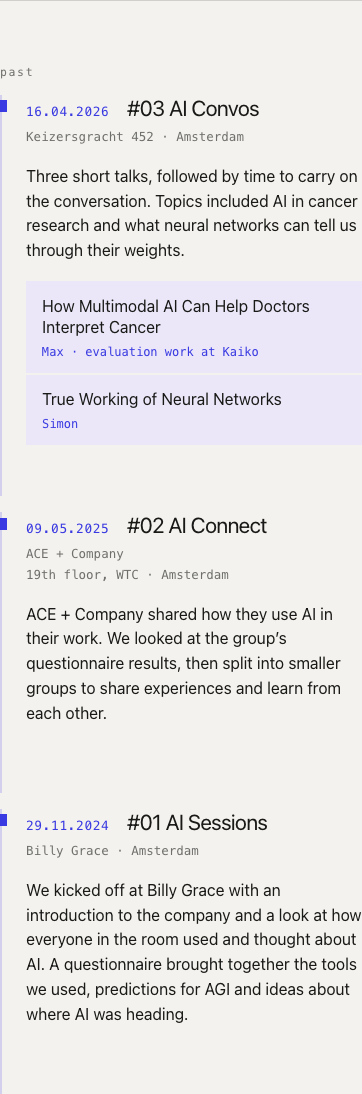
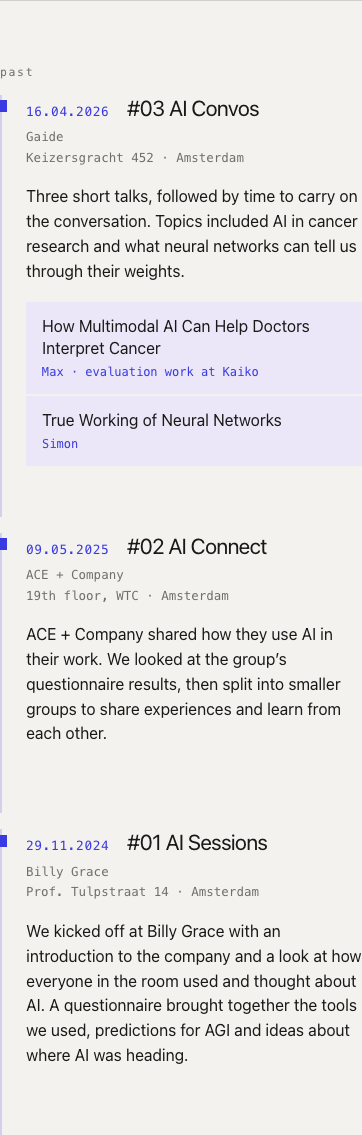
Restore past event locations and align desktop address baselines

diff --git a/index.html b/index.html
@@ -212,6 +212,10 @@
     footer a { border-bottom: 1px solid transparent; }
     footer a:hover { border-color: currentColor; }
 
+    @media (min-width: 721px) {
+      .past-heading { align-items: last baseline; }
+    }
+
     @media (max-width: 720px) {
       .shell { width: min(100% - 28px, 1180px); }
       .site-nav { gap: 0.8rem; }
@@ -274,7 +278,7 @@
         <div class="past-heading">
           <time class="past-date" datetime="2026-04-16">16.04.2026</time>
           <div class="past-title">#03 AI Convos</div>
-          <div class="past-meta">Keizersgracht 452 · Amsterdam</div>
+          <div class="past-meta">Gaide<br>Keizersgracht 452 · Amsterdam</div>
         </div>
         <p class="past-summary">Three short talks, followed by time to carry on the conversation. Topics included AI in cancer research and what neural networks can tell us through their weights.</p>
         <div class="talks" aria-label="Talks included at edition 3">
@@ -300,7 +304,7 @@
         <div class="past-heading">
           <time class="past-date" datetime="2024-11-29">29.11.2024</time>
           <div class="past-title">#01 AI Sessions</div>
-          <div class="past-meta">Billy Grace · Amsterdam</div>
+          <div class="past-meta">Billy Grace<br>Prof. Tulpstraat 14 · Amsterdam</div>
         </div>
         <p class="past-summary">We kicked off at Billy Grace with an introduction to the company and a look at how everyone in the room used and thought about AI. A questionnaire brought together the tools we used, predictions for AGI and ideas about where AI was heading.</p>
       </article>
